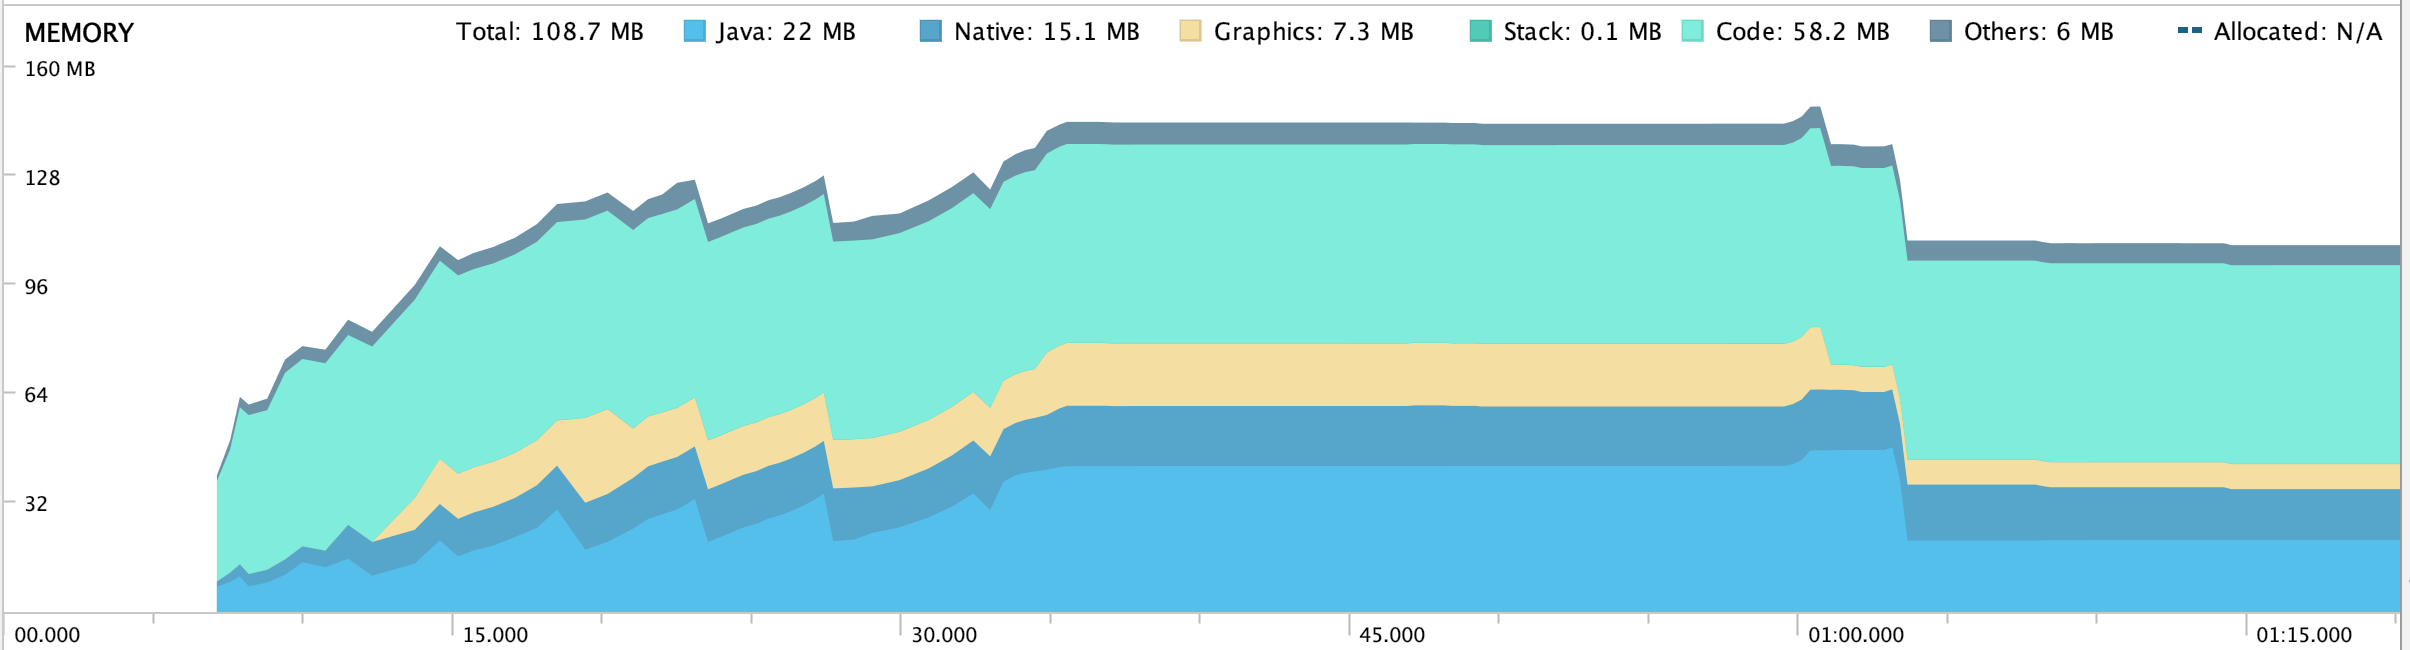
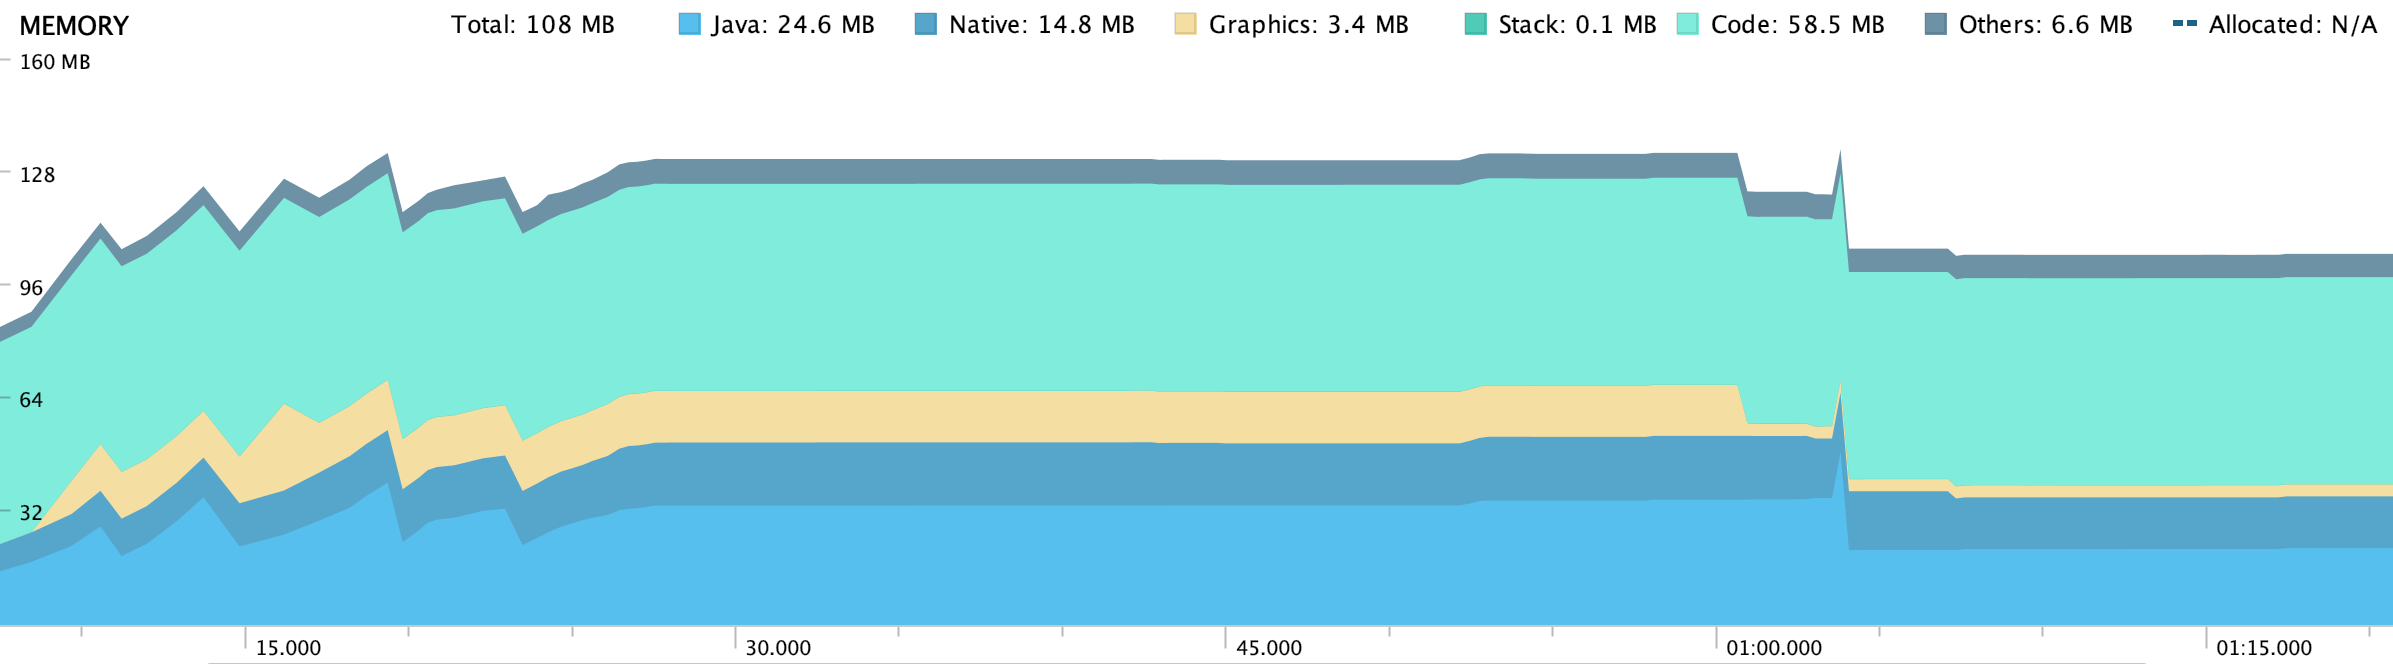
Fix

diff --git a/_posts/2019-12-07-starting_memory_uasge.md b/_posts/2019-12-07-starting_memory_uasge.md
@@ -528,17 +528,21 @@ protected void onDestroy() {
 
 ### 四、效果
 
-没有优化前启动，33秒突破32MB内存分配，并在40秒到50秒期间出现多次接近64MB的内存尖峰和垃圾回收
+没有优化启动内存前，25秒大幅超过32MB内存分配，且25秒到45秒期间多次出现内存尖峰和垃圾回收操作。45秒时界面已经加载完成，但是后台服务还在频繁申请和释放内存
 
 ![dump_size_compare](/img/android/performance/dump_size_compare.png)
 
-对比优化后，在28秒轻微越过32MB堆内存，而且随后内存申请曲线相对柔和，启动完成时间从55秒提前到35秒。随后也不再触发垃圾回收操作，所以内存维持在稍高水平
+对比优化后，整个启动只有两次轻微越过32MB堆内存，整体内存申请曲线相对柔和，启动完成时间从45秒提前到28秒。随后也不再触发垃圾回收操作，内存占用维持32MB
 
-1分钟整均完成启动停在主界面，把应用退到后台，两者堆内存减少到21MB，可见应用后台占用内存不多
+时间到1分钟整把应用退到后台并手动触发GC，两者堆内存减低到25MB以下，可见应用后台占用内存不多
 
 ### 五、总结
 
-此次优化证明处理方案可减少启动过程对象产生数量，缩减最大内存占用量。若考虑用户动态使用场景、隐含未知的内存泄漏、图中尚存在的尖峰，后续还有进一步优化空间
+此次优化证明处理方案，可减少启动过程对象产生数量，缩减最大内存占用量。然而读者可能会疑惑，一般的技术优化效果那么明显？答案是否定的
+
+其实除了上述技术优化，笔者在跟踪源码过程中，还发现不少业务对应的代码执行低效甚至多余。这种查找不具有一般性，不能在此一点点列出，只能按照“能省就省”的对象申请想法，在技术优化的过程顺便完善
+
+若考虑用户动态使用场景、隐含未知的内存泄漏、图中尚存在的尖峰，后续还有进一步优化空间
 
 经验总结：
 
